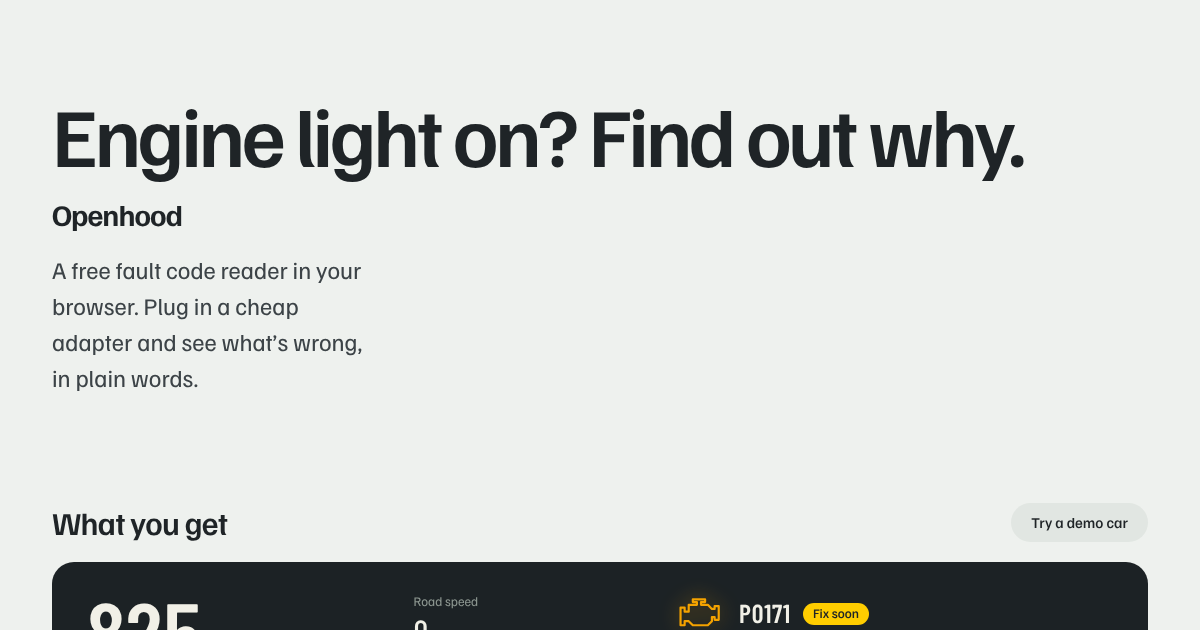
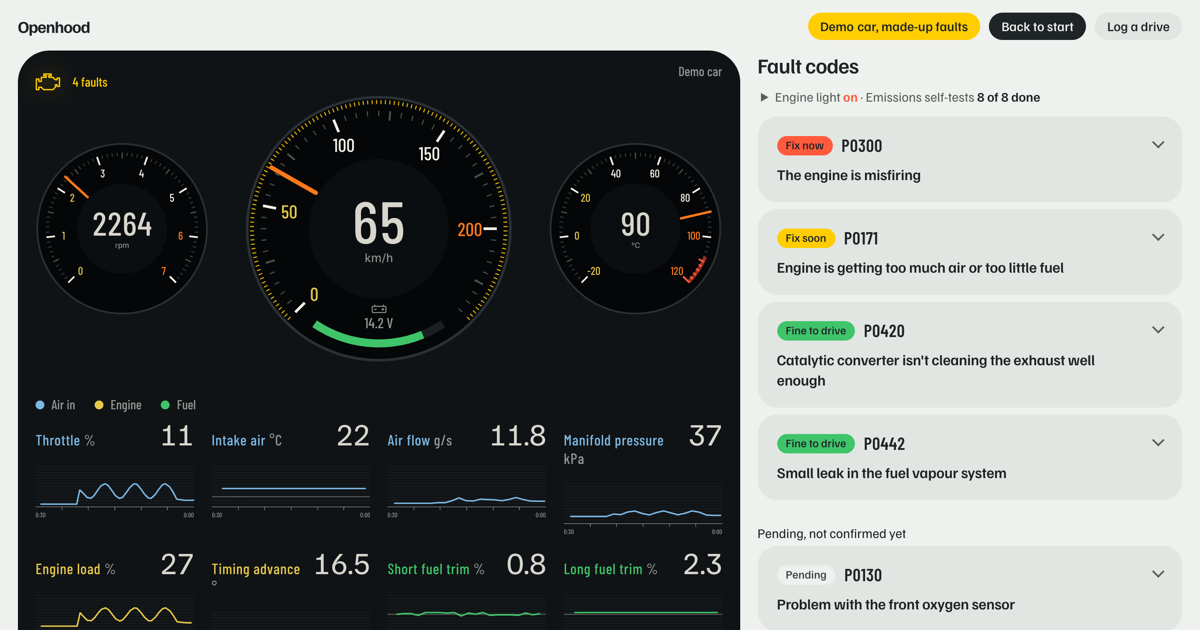
0.1.7: Td5 readings on npm, KKL cable shown as tested, new link preview (#8)
* 0.1.7: Td5 readings on npm, KKL cable shown as tested, demo label fits the header

- npm 0.1.7 carries the Td5's air pressure, idle speed error and injected fuel
- /adapters counted reads only by the pick's exact name, so the Defender's
  "VAG-COM KKL 409.1 USB" didn't count for the KKL pick. Picks now list other
  names they are sold as (alsoSoldAs)
- The demo label in the header is padded like the buttons beside it, so it is no
  taller than them on the dense live screen
- First-read plan: says the Td5 has been read on a car, and points at
  `npx openhood profiles` instead of listing two profiles

* Link preview shows the dense demo screen; chart values stay beside long names

- og.png is now the demo's live screen (dials, charts, fault cards), metric,
  shot at 1360x714 and scaled to 1200x630. ?v=2 so Facebook fetches it again
- Chart cards: a long name (Manifold pressure, Timing advance) wraps within
  its own space instead of pushing the value onto a line of its own

---------

diff --git a/app/globals.css b/app/globals.css
@@ -361,7 +361,8 @@ button.rec {
     padding: 0 14px;
   }
 
-  .dense .top .actions button {
+  .dense .top .actions button,
+  .dense .demo-name {
     padding: 8px 14px;
   }
 }
@@ -533,15 +534,15 @@ button.mark-name:hover:not(:disabled) {
   margin-left: 0.28em;
 }
 
+/* Padded like the buttons beside it, so it is as tall as they are in every layout. */
 .demo-name {
   display: inline-flex;
   align-items: center;
-  padding: 0 18px;
+  padding: 12px 20px;
   border-radius: 999px;
   background: var(--sign);
   color: var(--sign-ink);
   font: 500 15px/1 var(--sans);
-  height: 40px;
 }
 
 @media (max-width: 760px) {
@@ -581,7 +582,7 @@ button.mark-name:hover:not(:disabled) {
   }
 
   .demo-name {
-    padding: 0 14px;
+    padding: 12px 14px;
   }
 
   .demo-more {
@@ -1945,15 +1946,16 @@ body:has(.shell.is-first-run) {
   color: var(--cl-ink);
 }
 
+/* A long name wraps within its own space; the value always stays on the right of it. */
 .chart-head {
   display: flex;
-  flex-wrap: wrap;
   align-items: baseline;
   justify-content: space-between;
-  gap: 4px 12px;
+  gap: 12px;
 }
 
 .chart-name {
+  min-width: 0;
   font: 500 17px/1.2 var(--num);
   letter-spacing: 0.03em;
 }
@@ -1963,6 +1965,7 @@ body:has(.shell.is-first-run) {
 }
 
 .chart-value {
+  flex: none;
   margin-left: auto;
   font: 400 clamp(28px, 2.6vw, 36px)/1 var(--sans);
   letter-spacing: -0.02em;

diff --git a/tests/car-reports.test.ts b/tests/car-reports.test.ts
@@ -1,5 +1,6 @@
 import assert from "node:assert/strict";
 import { describe, it } from "node:test";
+import { ADAPTER_PICKS, isPick } from "@/core/adapters";
 import { getProfile } from "@/profiles";
 import { CAR_REPORTS, reportsFor, summarise, type CarReport } from "@/profiles/car-reports";
 import { VEHICLE_NAMES } from "@/profiles/names";
@@ -35,6 +36,16 @@ describe("car reports", () => {
     assert.equal(found.length, 3);
     assert.equal(summarise(found), "Read by 2 people (2002 to 2004), with an ELM327 adapter. 1 more had trouble.");
     assert.equal(summarise([]), null);
+  });
+
+  it("counts a read for the adapter pick it names, by any name it is sold as", () => {
+    const kkl = ADAPTER_PICKS.find((p) => p.kind === "kkl")!;
+    assert.ok(isPick(kkl, "vag-com kkl 409.1 usb"));
+    assert.ok(isPick(kkl, kkl.name));
+    assert.ok(!isPick(kkl, "Vgate iCar Pro 2S"));
+    assert.ok(!isPick(kkl, undefined));
+    // The Defender's read (issue #1) was with this cable, so the adapters page must say it's tested.
+    assert.ok(CAR_REPORTS.some((r) => r.result === "worked" && isPick(kkl, r.adapterModel)));
   });
 
   it("searches the shop for the person's country, by product name", async () => {

diff --git a/core/adapters.ts b/core/adapters.ts
@@ -10,6 +10,8 @@ export interface AdapterPick {
   kind: AdapterKind;
   /** The product name people can search for. Car reports use the same text in adapterModel. */
   name: string;
+  /** Other names car reports use for the same adapter (adapterModel), e.g. how a seller lists it. */
+  alsoSoldAs?: string[];
   /** What to type into a shop search. Defaults to the name. */
   search?: string;
   connects: "USB" | "Bluetooth";
@@ -40,11 +42,18 @@ export const ADAPTER_PICKS: AdapterPick[] = [
   {
     kind: "kkl",
     name: "KKL 409.1 cable with FTDI chip",
+    alsoSoldAs: ["VAG-COM KKL 409.1 USB"],
     search: "KKL 409.1 FT232RL",
     connects: "USB",
     why: "No brand to look for: check that the listing says FT232RL.",
   },
 ];
+
+/** Whether a car report's adapterModel names this pick (its name or another name it is sold as). */
+export function isPick(p: AdapterPick, adapterModel: string | undefined): boolean {
+  const m = adapterModel?.trim().toLowerCase();
+  return !!m && [p.name, ...(p.alsoSoldAs ?? [])].some((n) => n.toLowerCase() === m);
+}
 
 export const firstPick = (kind: AdapterKind) => ADAPTER_PICKS.find((p) => p.kind === kind);
 

diff --git a/app/layout.tsx b/app/layout.tsx
@@ -28,9 +28,10 @@ export const metadata: Metadata = {
     url: SITE,
     siteName: "Openhood",
     type: "website",
-    images: [{ url: `${SITE}/og.png`, width: 1200, height: 630, alt: "Openhood explains a fault code in plain words" }],
+    // Bump ?v= when og.png changes: Facebook and others cache the image by its URL.
+    images: [{ url: `${SITE}/og.png?v=2`, width: 1200, height: 630, alt: "Openhood reading a car: live dials and charts, fault codes in plain words" }],
   },
-  twitter: { card: "summary_large_image", title: TITLE, description: DESCRIPTION, images: [`${SITE}/og.png`] },
+  twitter: { card: "summary_large_image", title: TITLE, description: DESCRIPTION, images: [`${SITE}/og.png?v=2`] },
   manifest: `${base}/manifest.webmanifest`,
   icons: {
     icon: [{ url: `${base}/favicon-32.png`, sizes: "32x32", type: "image/png" }],

diff --git a/components/AdapterPicks.tsx b/components/AdapterPicks.tsx
@@ -1,12 +1,12 @@
 "use client";
 
 import { useEffect, useState } from "react";
-import { ADAPTER_PICKS, amazonLink, type AdapterPick } from "@/core/adapters";
+import { ADAPTER_PICKS, amazonLink, isPick, type AdapterPick } from "@/core/adapters";
 import { CAR_REPORTS } from "@/profiles/car-reports";
 
 /** How many working reads people have reported with this adapter. */
 const readsWith = (p: AdapterPick) =>
-  CAR_REPORTS.filter((r) => r.result === "worked" && r.adapterModel?.toLowerCase() === p.name.toLowerCase()).length;
+  CAR_REPORTS.filter((r) => r.result === "worked" && isPick(p, r.adapterModel)).length;
 
 /** The shop depends on where the person is; decided in the browser, after the static page loads. */
 function useLocale() {

diff --git a/docs/first-read.md b/docs/first-read.md
@@ -1,8 +1,9 @@
 # First read on a real car
 
-A one-page plan for the first time Openhood meets a real car. Nothing here has been proven on real
-hardware yet, so expect something to fail. The goal is that it fails usefully: with the traffic saved,
-so it can be fixed the same day.
+A one-page plan for the first time Openhood meets your car. So far only a Land Rover Td5 has been read
+on a real car (a 1999 Defender with a KKL cable); every other profile has only met its simulator, so
+expect something to fail. The goal is that it fails usefully: with the traffic saved, so it can be
+fixed the same day.
 
 Openhood only reads. Nothing below changes anything in the car.
 
@@ -44,10 +45,10 @@ Work down this list and stop at the first step that fails.
 | 5 | Website: pick the car, **Read my car** | The same codes and readings as steps 2 to 4. |
 | 6 | Website: answer **Did this match your car?** | Yes adds the car to the shared list. No sends a test report. |
 
-Which `<profile>`:
-
-- Land Rover Td5 (Defender, Discovery 2) with a KKL cable: `land-rover-td5`
-- Any other car, with an ELM327-type adapter: `generic-obd2`
+Which `<profile>`: `npx openhood profiles` lists them with the cars they cover and the adapters they
+run on. The website picks the same one when you choose your car. No profile for your car? Use
+`generic-obd2` with an ELM327-type adapter: standard codes on most cars from about 2001 (petrol) or
+2004 (diesel) in Europe, 1996 in the US.
 
 ## If a step fails
 
